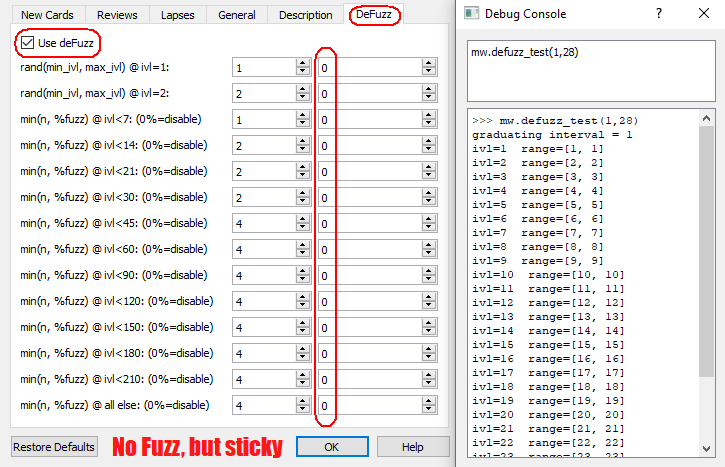
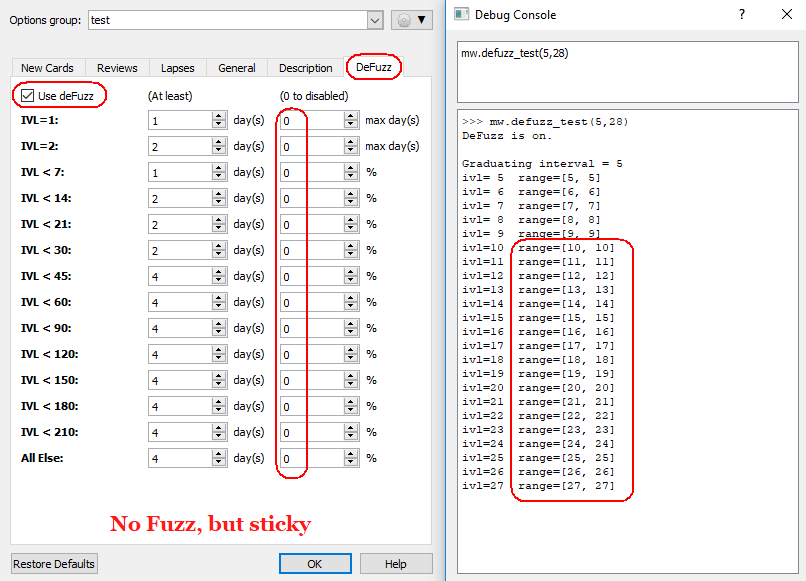
Updated UX and screens

Changed region(s): [[0.0, 0.0, 1.0, 1.0], [0.971, 0.0, 1.0, 0.03]]

diff --git a/src/defuzz/menuopt.py b/src/defuzz/menuopt.py
@@ -2,7 +2,7 @@
 # Copyright: (C) 2018-2019 Lovac42
 # Support: https://github.com/lovac42/DeFuzz
 # License: GNU GPL, version 3 or later; http://www.gnu.org/copyleft/gpl.html
-# Version: 0.0.3
+# Version: 0.0.4
 
 
 import aqt
@@ -27,11 +27,12 @@ def dconfsetupUi(self, Dialog):
     layoutDF.addWidget(self.defuzz, r, 0, 1, 1)
 
     label=QtWidgets.QLabel(tabDF)
-    label.setText(_("MIN_FUZZ"))
+    label.setText(_("(At least)"))
     layoutDF.addWidget(label, r, 1, 1, 1)
+
     label=QtWidgets.QLabel(tabDF)
-    label.setText(_("% FUZZ (0 to disabled)"))
-    layoutDF.addWidget(label, r, 2, 1, 1)
+    label.setText(_("(0 to disabled)"))
+    layoutDF.addWidget(label, r, 3, 1, 1)
     r+=1
 
     self.defuzz_perc=[]
@@ -39,11 +40,14 @@ def dconfsetupUi(self, Dialog):
     for L in FUZZ_LEVELS:
         label=QtWidgets.QLabel(tabDF)
         if not L[0]:
-            label.setText(_("All Else:"))
+            label.setText(_("<b>All Else:</b>"))
+            maxx="%"
         elif L[0] <=3: #looks weird...
-            label.setText(_("[min_IVL] [max_IVL] @ IVL=%d:"%(L[0]-1)))
+            label.setText(_("<b>IVL=%d:</b>"%(L[0]-1)))
+            maxx="max day(s)"
         else:
-            label.setText(_("@ IVL < %d:"%L[0]))
+            label.setText(_("<b>IVL &lt; %d:</b>"%L[0]))
+            maxx="%"
         layoutDF.addWidget(label, r, 0, 1, 1)
 
         mFuzz=QtWidgets.QSpinBox(tabDF)
@@ -53,11 +57,22 @@ def dconfsetupUi(self, Dialog):
         self.defuzz_fuzz.append(mFuzz)
         layoutDF.addWidget(mFuzz, r, 1, 1, 1)
 
+        label=QtWidgets.QLabel(tabDF)
+        label.setText(_("day(s)"))
+        label.setMaximumWidth(40)
+        layoutDF.addWidget(label, r, 2, 1, 1)
+
         perc=QtWidgets.QSpinBox(tabDF)
         perc.setMinimum(0)
         perc.setMaximum(666)
+        perc.setMaximumWidth(80)
         self.defuzz_perc.append(perc)
-        layoutDF.addWidget(perc, r, 2, 1, 1)
+        layoutDF.addWidget(perc, r, 3, 1, 1)
+
+        label=QtWidgets.QLabel(tabDF)
+        label.setText(_(maxx))
+        label.setMaximumWidth(55)
+        layoutDF.addWidget(label, r, 4, 1, 1)
         r+=1
 
     vLayoutDF.addLayout(layoutDF)
